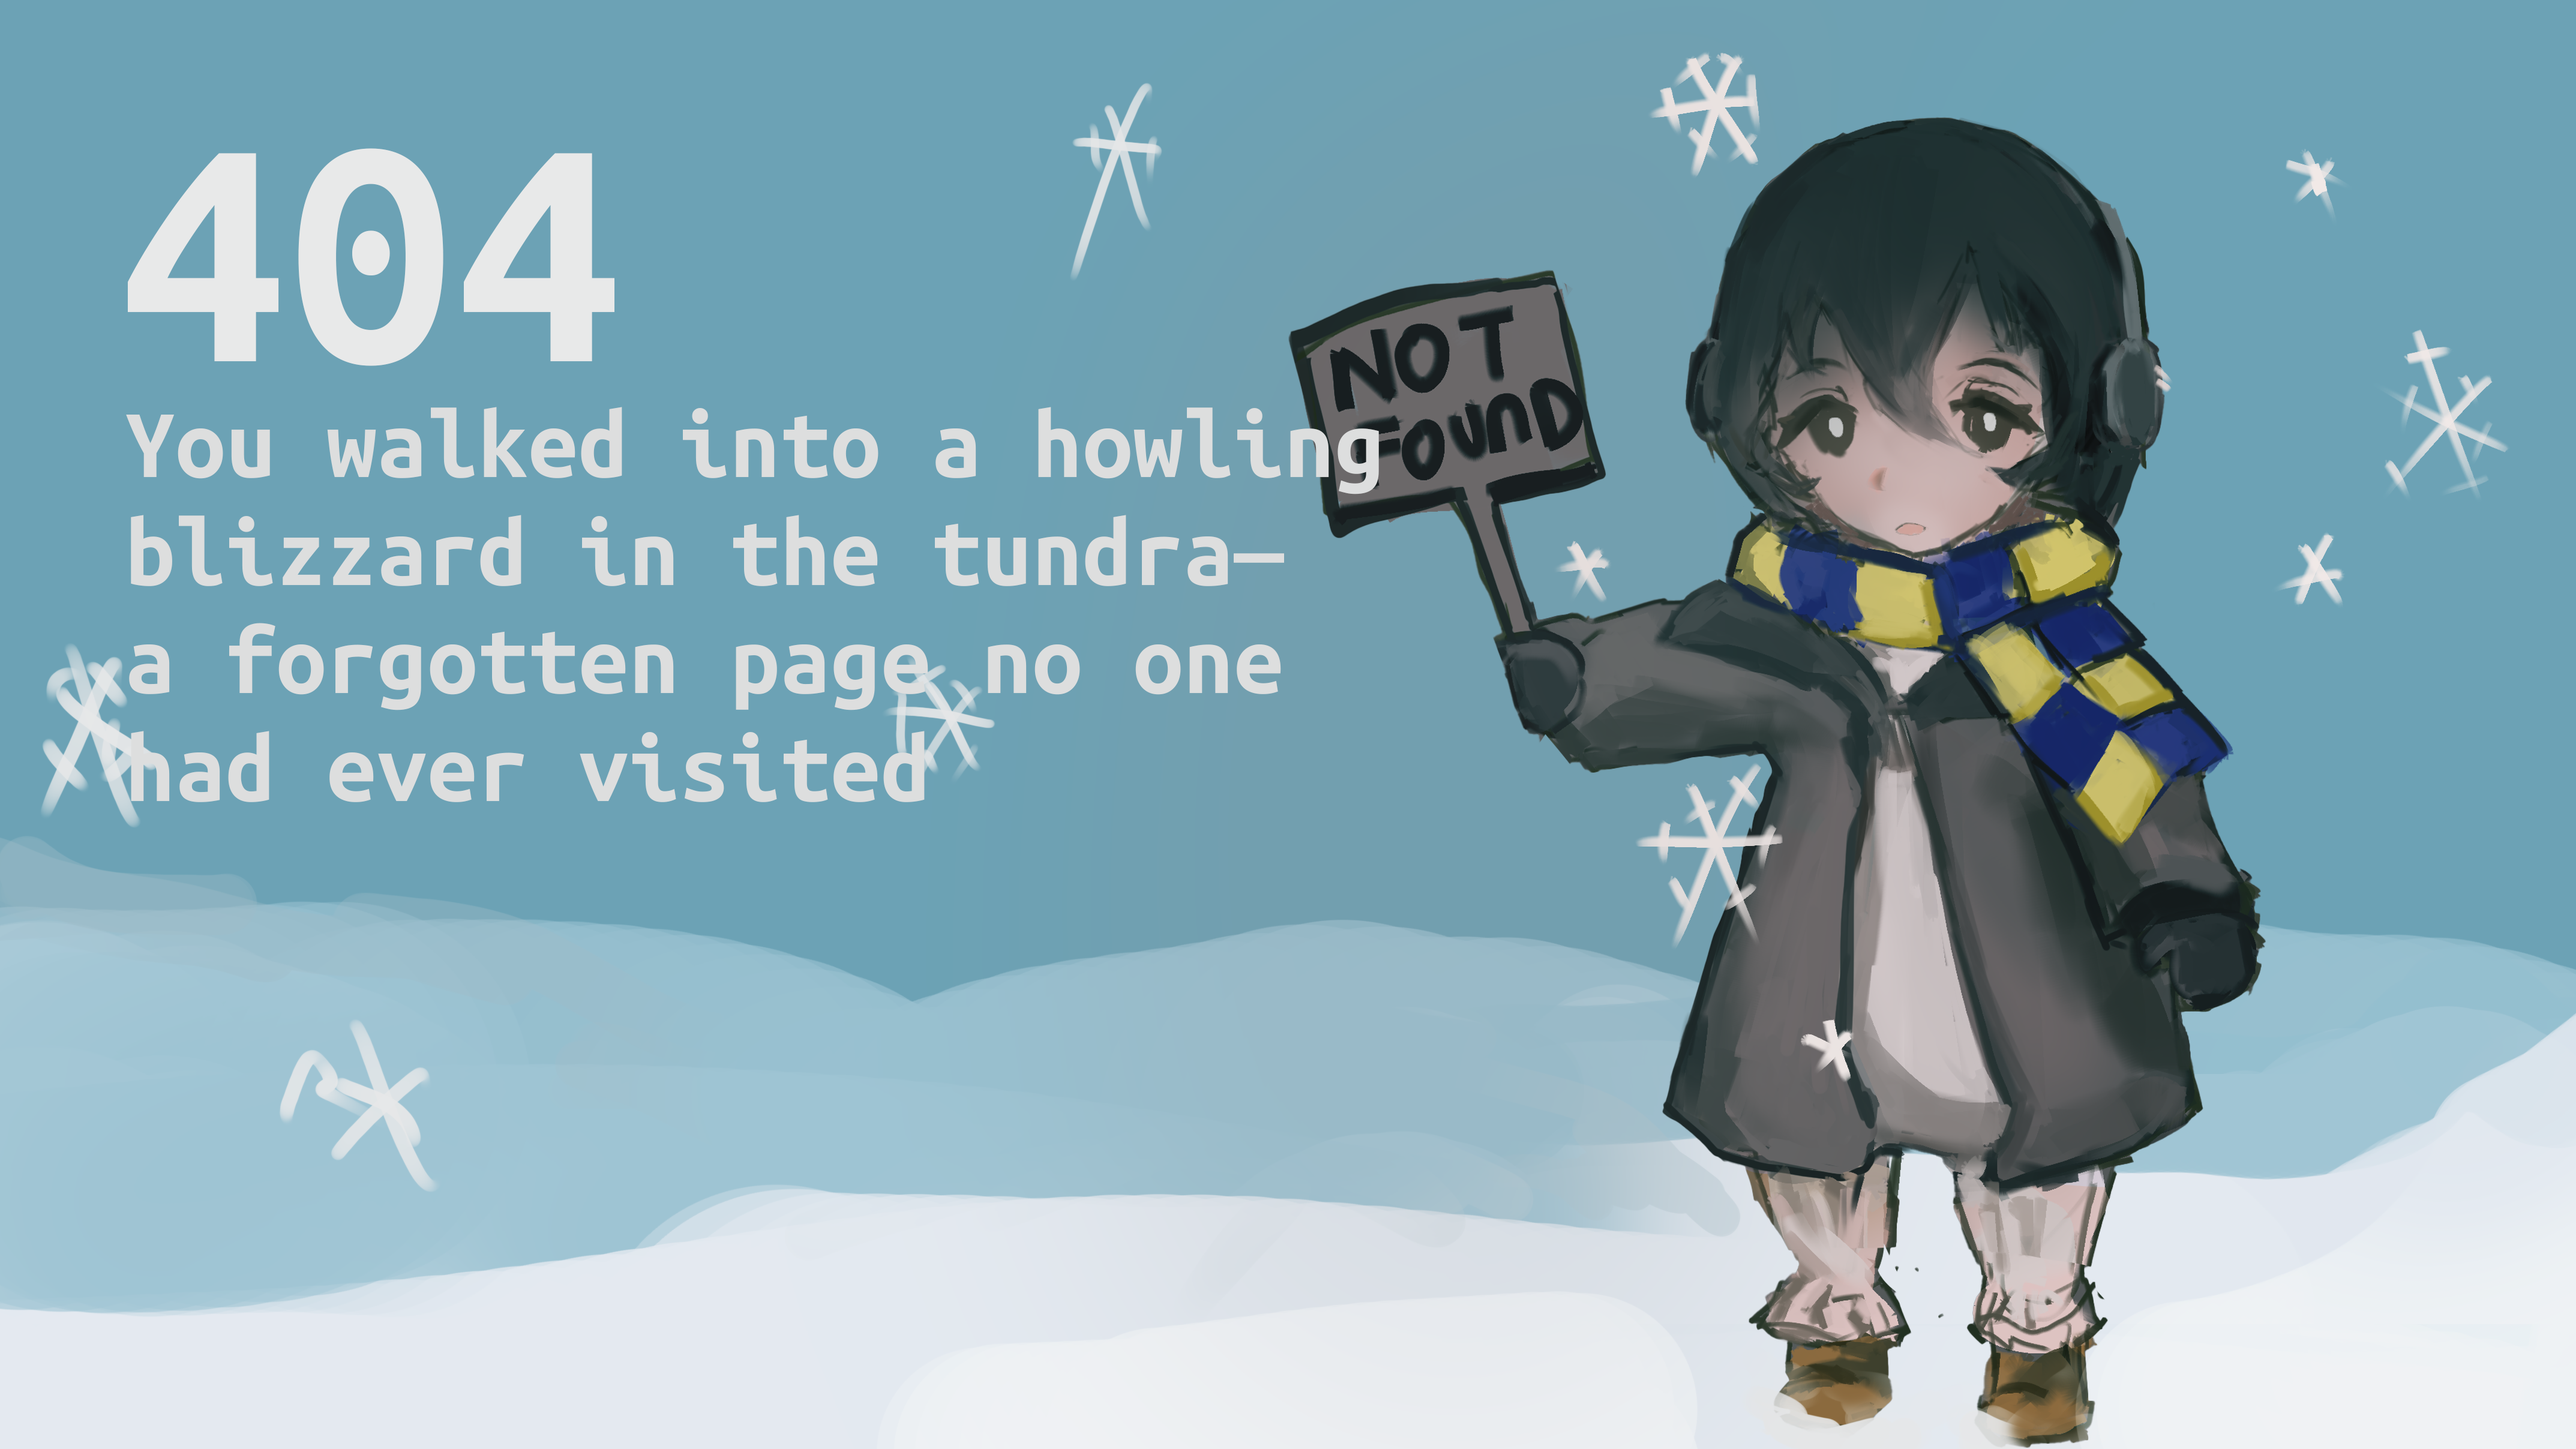
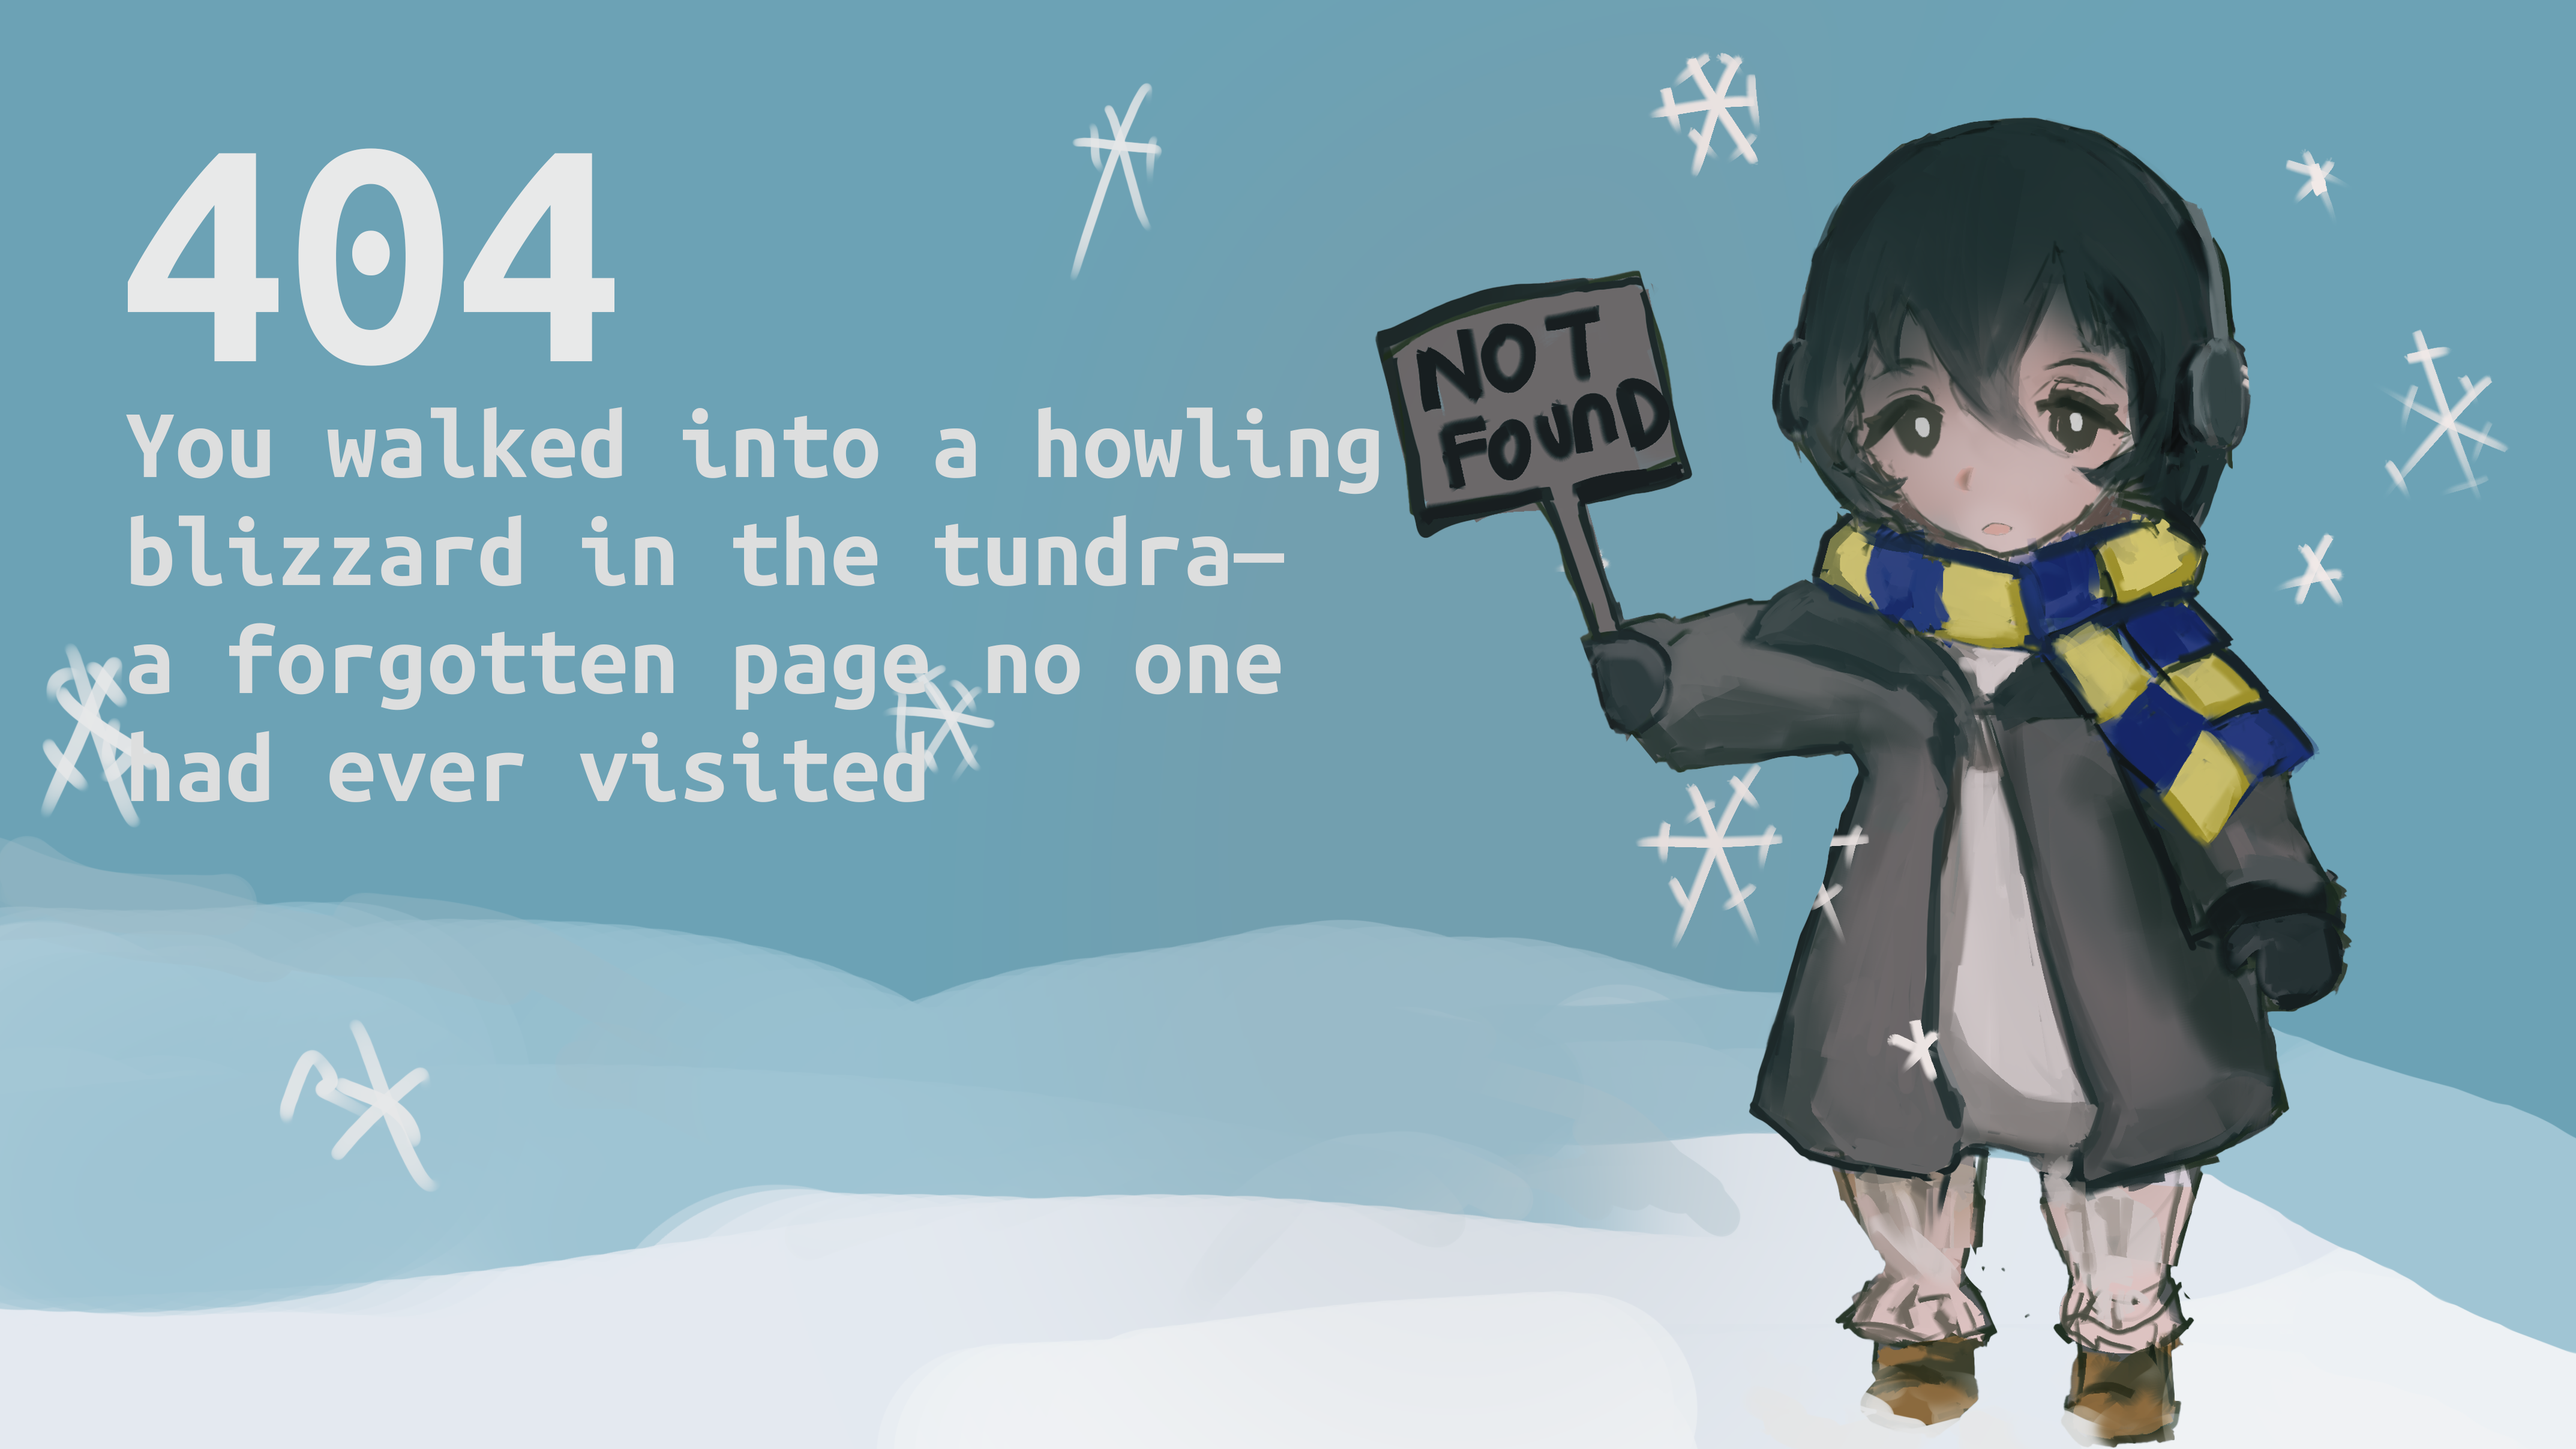
edit error again (#883)
* changing 404png

* oops image

* changing color

* somehow not get pushed

* [pre-commit.ci] auto fixes from pre-commit.com hooks

for more information, see https://pre-commit.ci

---------

Changed region(s): [[0.4994, 0.0621, 1.0, 1.0]]

diff --git a/ocfweb/templates/404.html b/ocfweb/templates/404.html
@@ -2,15 +2,16 @@
 {% load static %}
 
 {% block content %}
+
 <div>
 <style>
     body {
-        background-color: #58C5C8;
+        background-color: #6ca2b5;
     }
 
     .ocf-content {
         padding: 0px 0px 0px 0px;
-        background-color: #58C5C8;
+        background-color: #ebeef1;
         height: 1000px;
     }
 </style>
